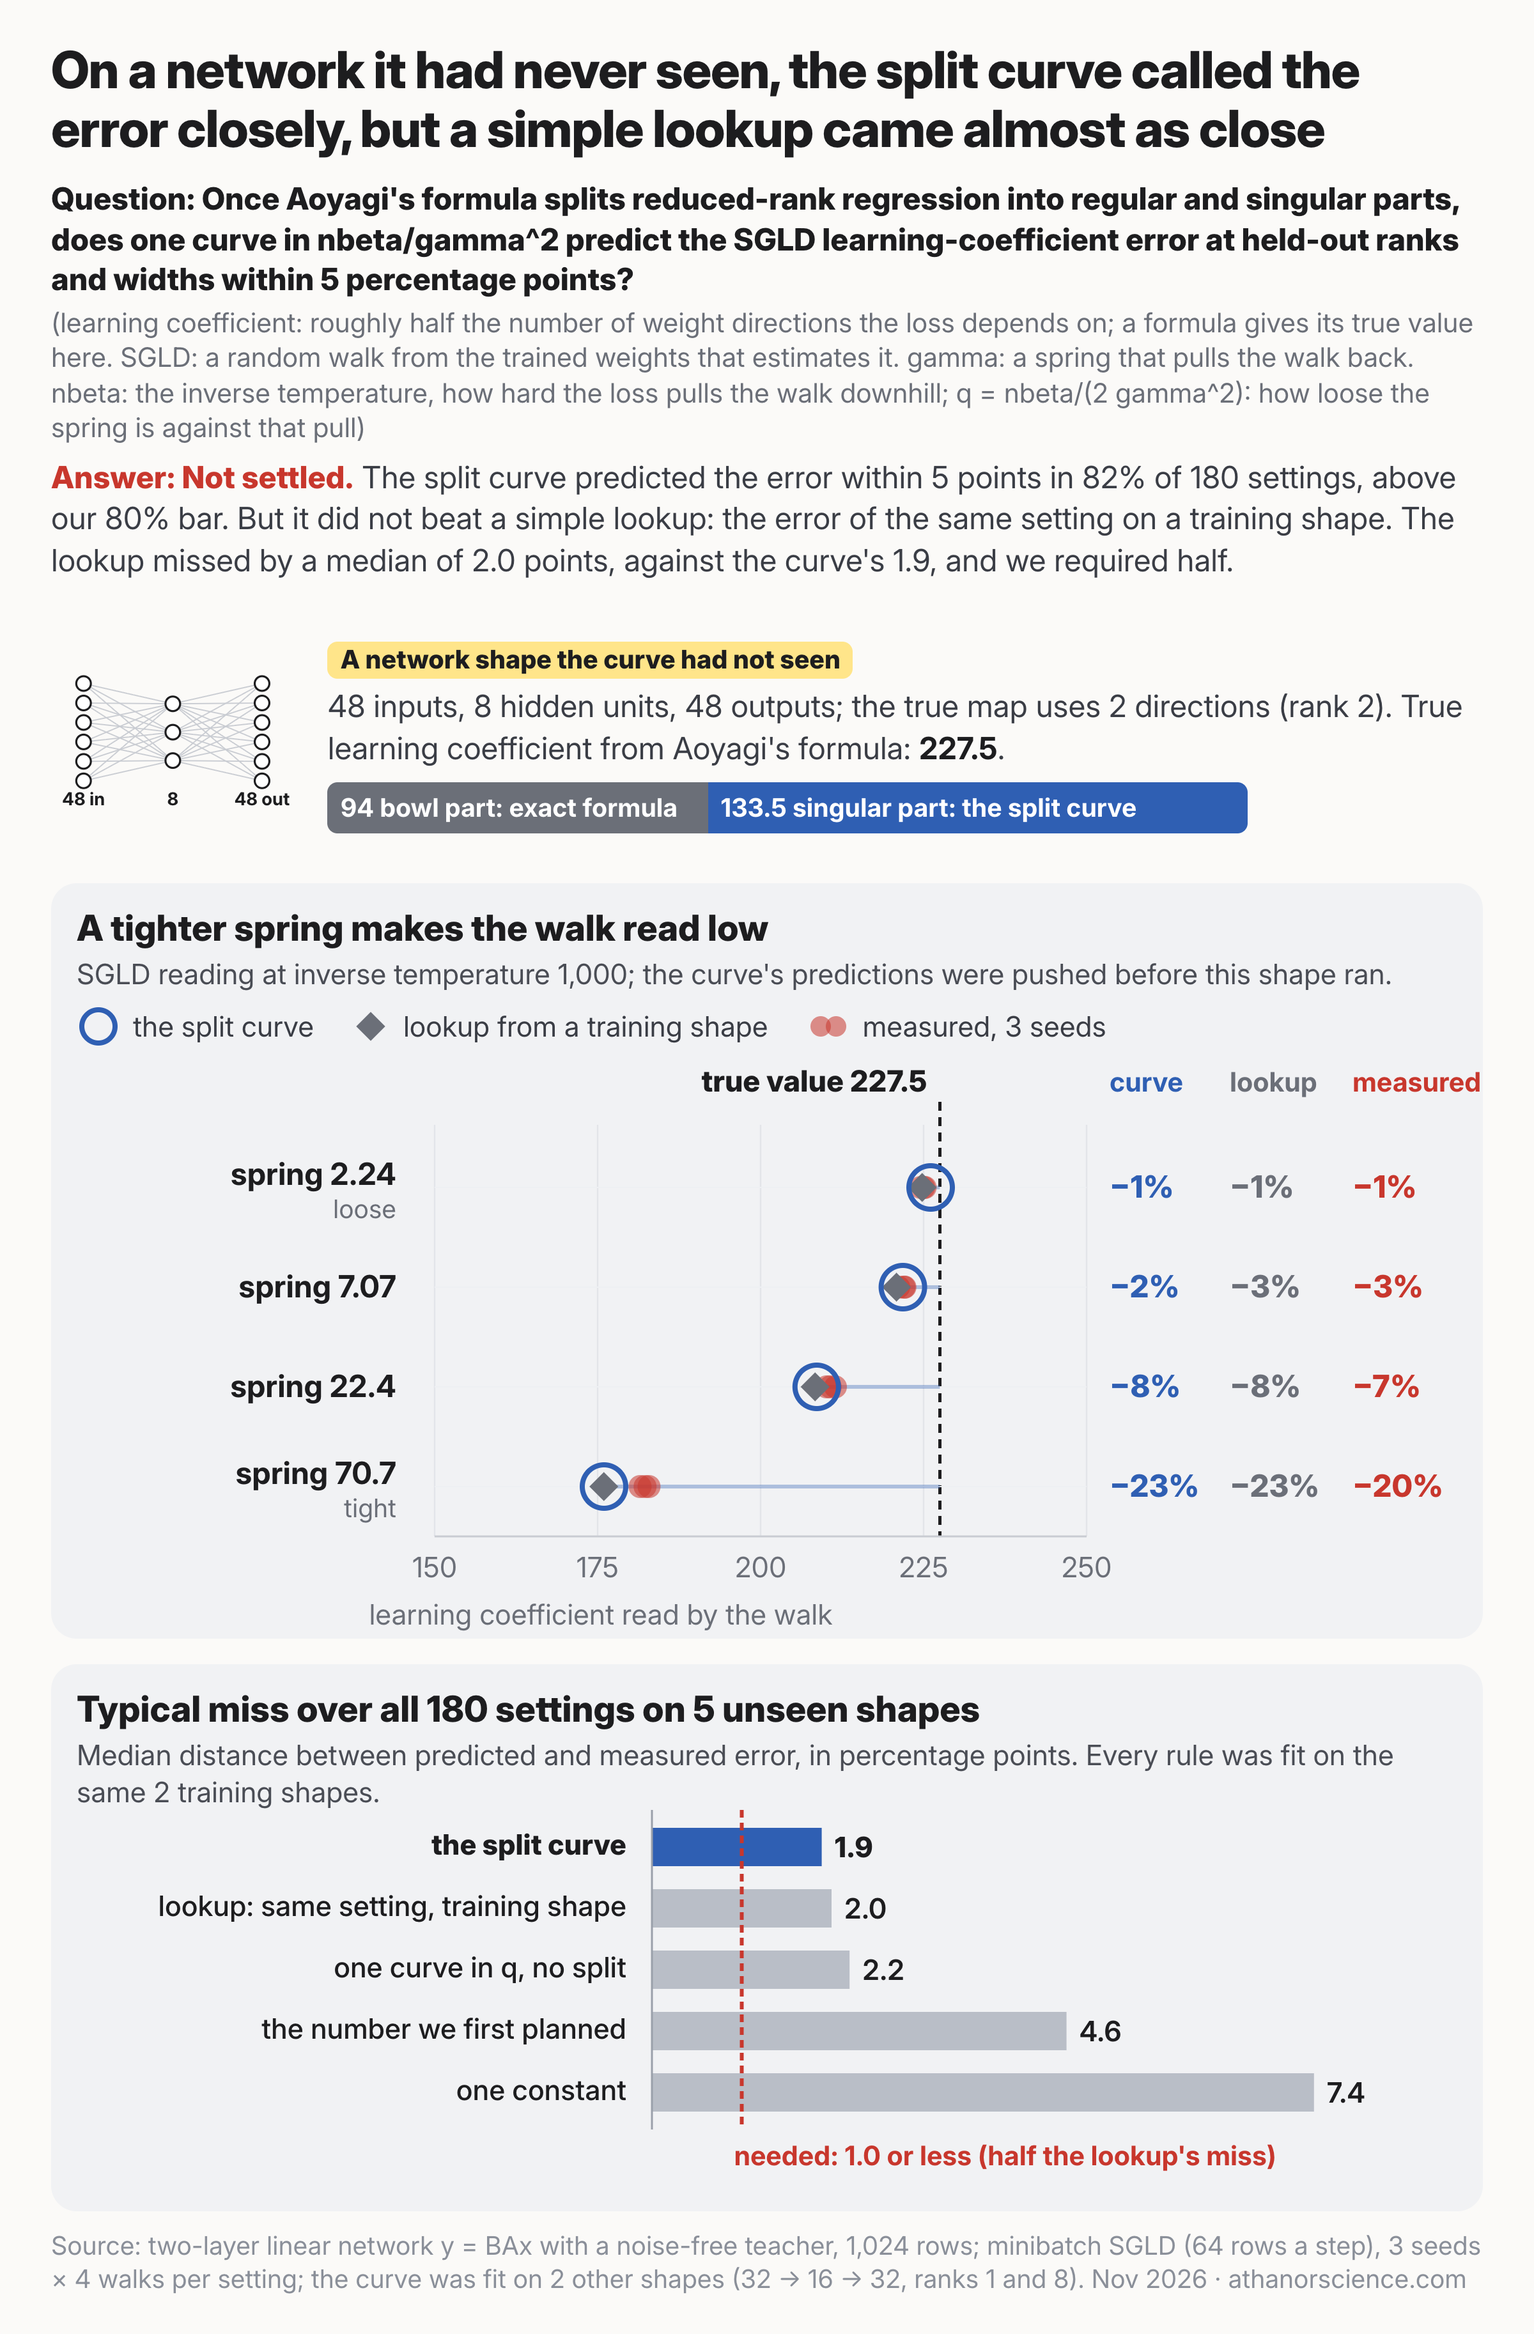
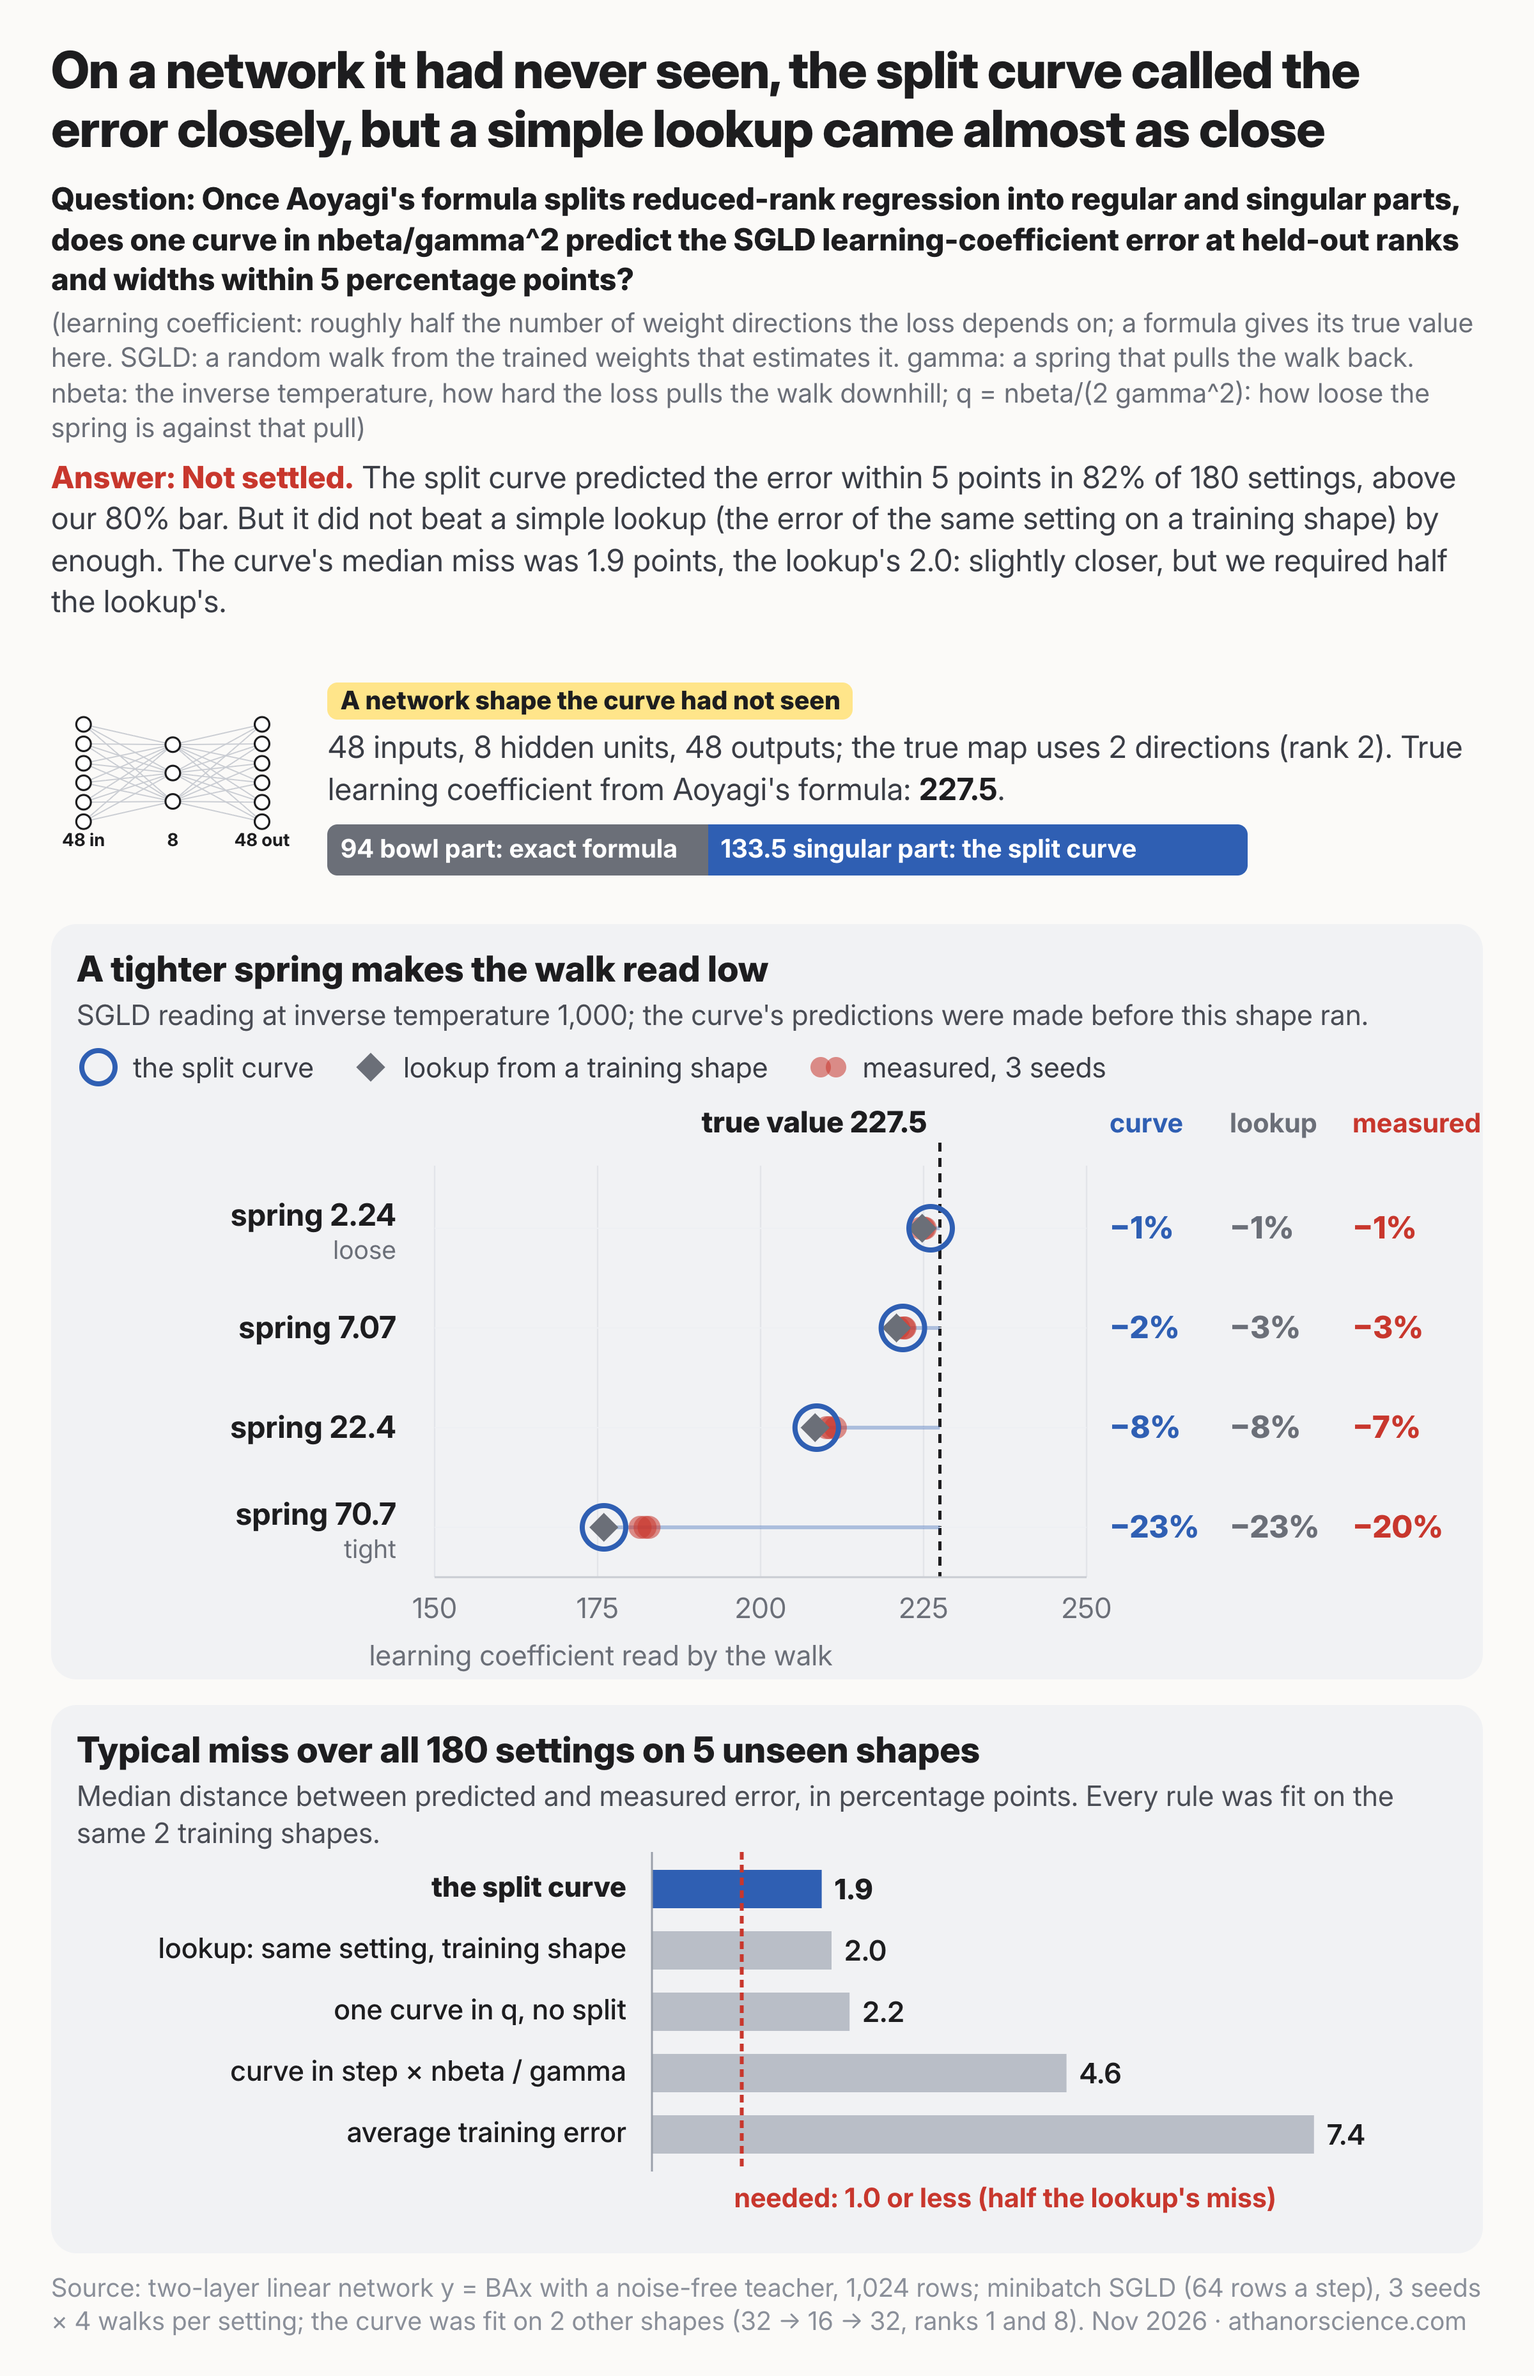
figure1 v08 (gate 8/8) + main figure lookup line (Owain)

diff --git a/projects/llc-bias-law/figures/build_main.py b/projects/llc-bias-law/figures/build_main.py
@@ -50,7 +50,7 @@ for c in prim:
     SHAPE[c["case"]] = f"{M} → {Hh} → {N}, rank {r}"
 
 LAB = {"L": "split law (the curve)", "L_z": "split law, shape-scaled (secondary)",
-       "N1": "one constant", "N2": "one curve, no split", "N3": "the number we first planned",
+       "N1": "average training error", "N2": "one curve, no split", "N3": "curve in step × nβ / γ, the number we first planned",
        "N4": "lookup: same setting, training shape"}
 bars = sorted(({"law": k, "label": LAB[k], "share": share(k), "median": st.median([miss(c, k) for c in prim]),
                 "hero": k == "L"} for k in LAB), key=lambda d: d["median"])
@@ -67,10 +67,12 @@ out = {
     "title": "The split curve's predicted error next to the measured error, on 5 unseen network shapes",
     "subtitle": ("The split curve: an exact formula for the bowl-shaped part of the learning coefficient plus one fitted "
                  "curve in q for the singular rest, fitted on 2 training shapes and predicted before the 5 unseen shapes "
-                 "ran. The dashed line is one fitted curve in q with no split."),
+                 "ran. The dashed line is one fitted curve in q with no split. A lookup (the error of the same setting "
+                 f"on a training shape) did almost as well: median miss {P['nulls']['N4']['median_miss']:.1f} points "
+                 f"against the curve's {P['L']['median_miss']:.1f}, and the test needed half."),
     "status": P["status"], "n": len(prim), "n_within": nL, "n_unsettled": nuns,
     "share": share("L"), "median": P["L"]["median_miss"], "spread": P["spread_pts"],
-    "seed_level": P["seed_level"], "need": need,
+    "seed_level": P["seed_level"], "need": need, "lookup_median": P["nulls"]["N4"]["median_miss"],
     "n2": json.loads((HERE / "predictions.json").read_text())["fit"]["N2"],
     "cells": cells, "bars": bars,
 }
